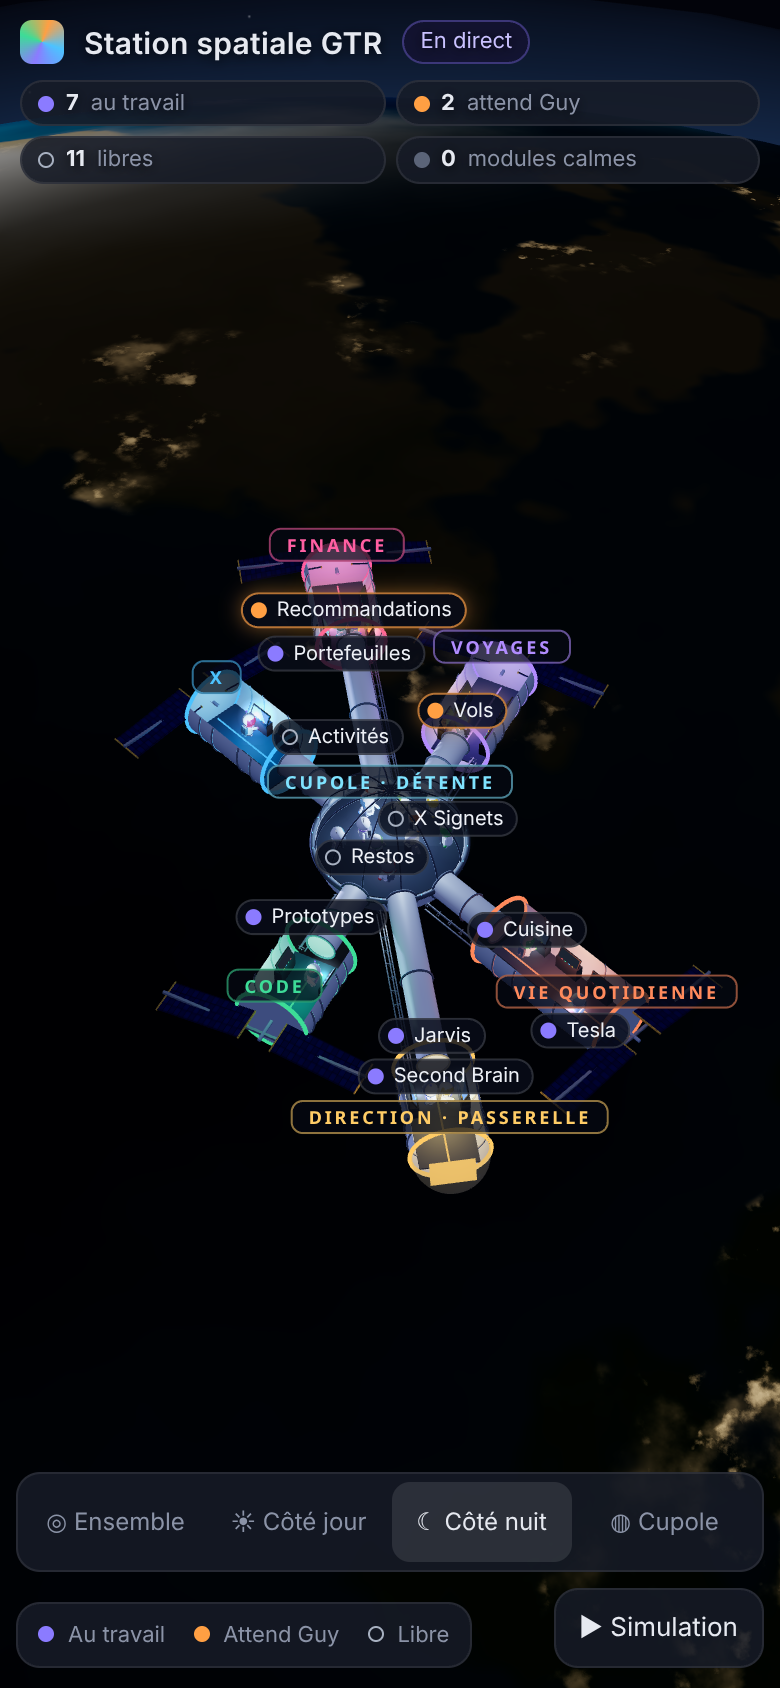
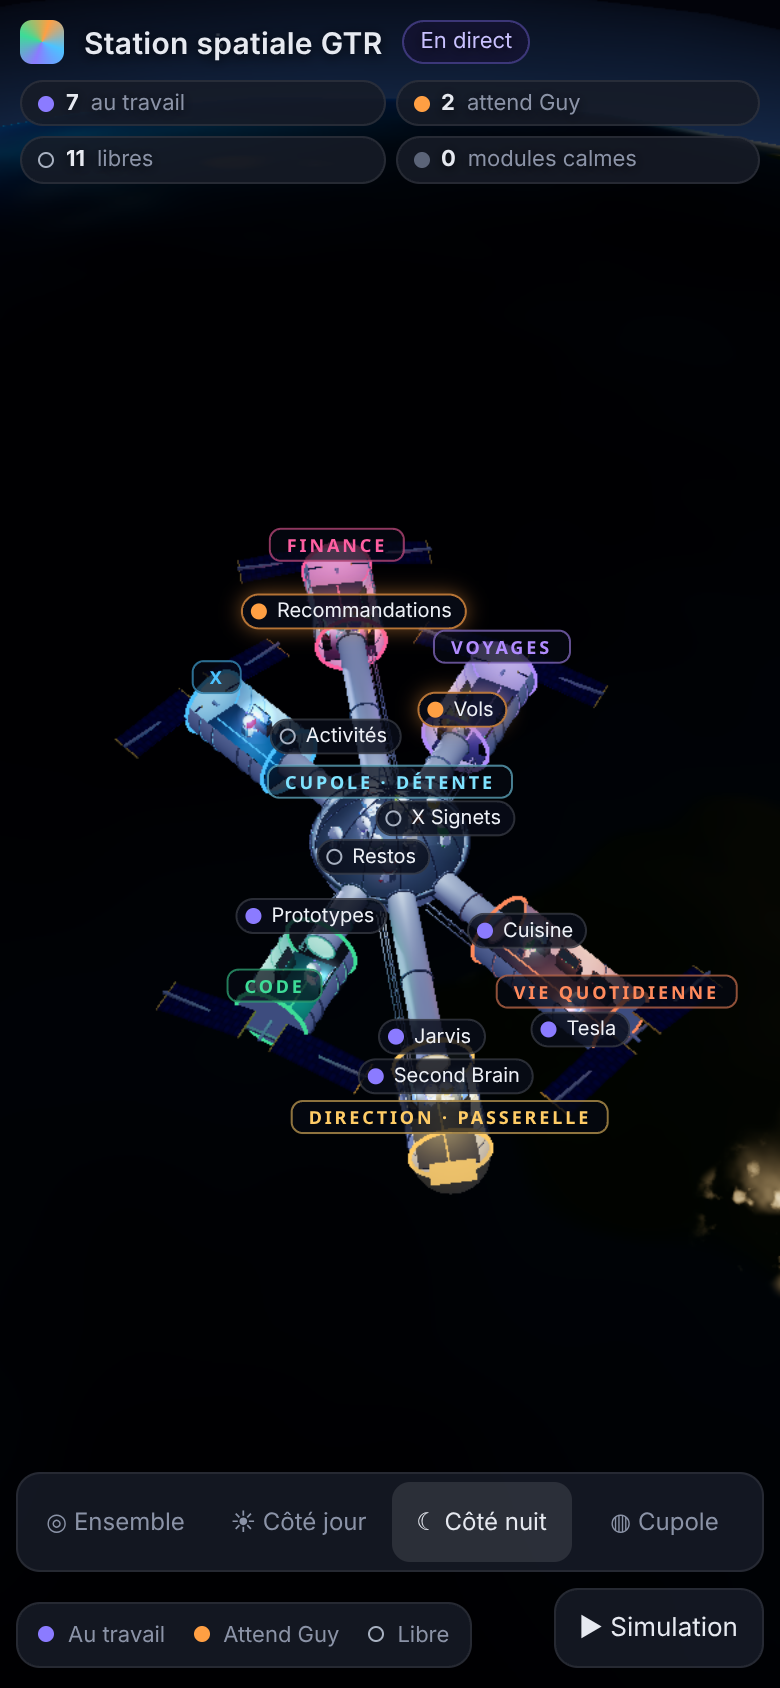
Correctif mobile : shader Terre sûr en mediump, repli Terre simple, détection d'écran blanc, fond sombre, pixelRatio limité

diff --git a/app.js b/app.js
@@ -19,8 +19,29 @@ const estCell = () => matchMedia('(max-width:860px)').matches;
 const forme = () => (conteneur.clientWidth < conteneur.clientHeight * 0.9 ? 'portrait' : 'paysage');
 
 // ---------- Rendu ----------
-const renderer = new THREE.WebGLRenderer({ antialias: true });
-renderer.setPixelRatio(Math.min(devicePixelRatio, 2));
+const params = new URLSearchParams(location.search);
+const mobile = matchMedia('(max-width:860px), (pointer:coarse)').matches;
+function avis(msg, duree = 0) {
+  let el = document.getElementById('avis-3d');
+  if (!el) { el = document.createElement('p'); el.id = 'avis-3d'; el.className = 'avis'; document.querySelector('.vue').append(el); }
+  el.textContent = msg; console.info('[3D]', msg);
+  clearTimeout(avis.t); if (duree) avis.t = setTimeout(() => el.remove(), duree);
+}
+let renderer;
+try {
+  renderer = new THREE.WebGLRenderer({ antialias: !mobile, powerPreference: 'default' });
+} catch (e) {
+  avis('La 3D (WebGL) n’est pas disponible sur cet appareil. Les états restent visibles dans le panneau.');
+  throw e;
+}
+renderer.setPixelRatio(Math.min(devicePixelRatio, mobile ? 1.5 : 2));
+renderer.setClearColor('#02030a', 1);
+let terreSimple = false;
+renderer.debug.onShaderError = (gl, prog, vs, fs) => {
+  avis('Shader non pris en charge : Terre simplifiée.', 8000);
+  if (!terreSimple) setTimeout(() => passerTerreSimple('erreur de shader'), 0);
+};
+renderer.domElement.addEventListener('webglcontextlost', (e) => { e.preventDefault(); avis('Contexte 3D perdu — rechargez la page.'); });
 renderer.shadowMap.enabled = true;
 renderer.shadowMap.type = THREE.PCFSoftShadowMap;
 renderer.toneMapping = THREE.ACESFilmicToneMapping;
@@ -86,14 +107,15 @@ scene.add(terre);
 const uniTerre = { soleilDir: { value: dirSoleil }, temps: { value: 0 } };
 const matTerre = new THREE.ShaderMaterial({
   uniforms: uniTerre,
+  defines: { OCT: mobile ? 5 : 7 },
   vertexShader: `varying vec3 vP; varying vec3 vN; varying vec3 vW;
     void main(){ vP=position; vN=normalize(mat3(modelMatrix)*normal); vec4 w=modelMatrix*vec4(position,1.); vW=w.xyz; gl_Position=projectionMatrix*viewMatrix*w; }`,
   fragmentShader: `uniform vec3 soleilDir; uniform float temps; varying vec3 vP; varying vec3 vN; varying vec3 vW;
-    float hash(vec3 p){ p=fract(p*0.3183099+.1); p*=17.0; return fract(p.x*p.y*p.z*(p.x+p.y+p.z)); }
+    float hash(vec3 p){ p=fract(p*0.1031); p+=dot(p,p.yzx+19.19); return fract((p.x+p.y)*p.z); }
     float bruit(vec3 x){ vec3 i=floor(x); vec3 f=fract(x); f=f*f*(3.-2.*f);
       return mix(mix(mix(hash(i),hash(i+vec3(1,0,0)),f.x),mix(hash(i+vec3(0,1,0)),hash(i+vec3(1,1,0)),f.x),f.y),
                  mix(mix(hash(i+vec3(0,0,1)),hash(i+vec3(1,0,1)),f.x),mix(hash(i+vec3(0,1,1)),hash(i+vec3(1,1,1)),f.x),f.y),f.z); }
-    float fbm(vec3 p){ float s=0., a=.5; for(int i=0;i<7;i++){ s+=a*bruit(p); p=p*2.03+vec3(1.7,9.2,3.1); a*=.5; } return s/0.992; }
+    float fbm(vec3 p){ float s=0., a=.5; for(int i=0;i<OCT;i++){ s+=a*bruit(p); p=p*2.03+vec3(1.7,9.2,3.1); a*=.5; } return s/(1.-pow(.5,float(OCT))); }
     void main(){
       vec3 p=normalize(vP); vec3 N=normalize(vN); vec3 L=normalize(soleilDir); vec3 V=normalize(cameraPosition-vW);
       float h=fbm(p*2.4);
@@ -112,17 +134,31 @@ const matTerre = new THREE.ShaderMaterial({
       float zone=smoothstep(0.5,0.66,fbm(p*9.+7.));
       float villes=terre*(1.-glace)*zone*(0.55*smoothstep(0.58,0.78,fbm(p*140.+1.))+0.18*smoothstep(0.52,0.7,fbm(p*35.+3.)));
       vec3 nuit=vec3(1.,.72,.38)*villes*1.3*(1.-nu*0.85)+col*0.015;
-      gl_FragColor=vec4(mix(nuit,jour,t),1.);
+      gl_FragColor=vec4(clamp(mix(nuit,jour,t),0.,1.),1.);
       #include <tonemapping_fragment>
       #include <colorspace_fragment>
     }`,
 });
-const globe = new THREE.Mesh(new THREE.SphereGeometry(RT, 128, 96), matTerre); terre.add(globe);
+const globe = new THREE.Mesh(new THREE.SphereGeometry(RT, mobile ? 72 : 128, mobile ? 48 : 96), matTerre); terre.add(globe);
+// Repli : Terre simple (couleurs + éclairage standard) si le shader échoue ou rend du blanc
+function passerTerreSimple(raison) {
+  if (terreSimple) return; terreSimple = true;
+  const c = document.createElement('canvas'); c.width = 256; c.height = 128; const g = c.getContext('2d');
+  const gr = g.createLinearGradient(0, 0, 0, 128); gr.addColorStop(0, '#dfe8f0'); gr.addColorStop(0.12, '#1d5a8c'); gr.addColorStop(0.5, '#0f4a7a'); gr.addColorStop(0.88, '#1d5a8c'); gr.addColorStop(1, '#dfe8f0');
+  g.fillStyle = gr; g.fillRect(0, 0, 256, 128);
+  let s0 = 11; const r = () => (s0 = (s0 * 16807) % 2147483647) / 2147483647;
+  for (let i = 0; i < 26; i++) { g.fillStyle = r() < 0.5 ? '#3f6b35' : '#a8925c'; g.beginPath(); g.ellipse(r() * 256, 20 + r() * 88, 8 + r() * 26, 5 + r() * 14, r() * 3, 0, 7); g.fill(); }
+  g.fillStyle = 'rgba(255,255,255,.35)'; for (let i = 0; i < 40; i++) { g.beginPath(); g.ellipse(r() * 256, r() * 128, 6 + r() * 20, 2 + r() * 5, 0, 0, 7); g.fill(); }
+  const t = new THREE.CanvasTexture(c); t.colorSpace = THREE.SRGBColorSpace;
+  globe.material = new THREE.MeshStandardMaterial({ map: t, roughness: 0.9, metalness: 0 });
+  atmo.visible = false;
+  if (params.has('debug') || raison !== 'test') avis('Mode compatibilité : Terre simplifiée (' + raison + ').', 8000);
+}
 const atmo = new THREE.Mesh(new THREE.SphereGeometry(RT * 1.05, 64, 48), new THREE.ShaderMaterial({
   uniforms: { soleilDir: { value: dirSoleil } }, side: THREE.BackSide, blending: THREE.AdditiveBlending, transparent: true, depthWrite: false,
   vertexShader: `varying vec3 vN; varying vec3 vW; void main(){ vN=normalize(normalMatrix*normal); vW=normalize(mat3(modelMatrix)*normal); gl_Position=projectionMatrix*modelViewMatrix*vec4(position,1.); }`,
-  fragmentShader: `uniform vec3 soleilDir; varying vec3 vN; varying vec3 vW; void main(){ float i=pow(0.72-dot(vN,vec3(0,0,1.)),3.2); float j=0.35+0.65*smoothstep(-0.4,0.4,dot(-vW,normalize(soleilDir)));
-    gl_FragColor=vec4(vec3(0.3,0.6,1.0)*i*j*1.6,1.); }`,
+  fragmentShader: `uniform vec3 soleilDir; varying vec3 vN; varying vec3 vW; void main(){ float i=pow(max(0.72-dot(vN,vec3(0,0,1.)),0.),3.2); float j=0.35+0.65*smoothstep(-0.4,0.4,dot(-vW,normalize(soleilDir)));
+    gl_FragColor=vec4(clamp(vec3(0.3,0.6,1.0)*i*j*1.6,0.,1.),1.); }`,
 }));
 terre.add(atmo);
 terre.rotation.set(1.25, 0, 0.2); // on survole les tropiques, pas le pôle
@@ -573,6 +609,19 @@ function deChevaucher() {
   }
 }
 
+// ---------- Vérification du rendu (écran blanc = shader en échec sur certains GPU mobiles) ----------
+let verif = 0;
+function verifierImage() {
+  if (params.has('simple')) return passerTerreSimple('test');
+  const gl = renderer.getContext(), w = gl.drawingBufferWidth, h = gl.drawingBufferHeight, px = new Uint8Array(4);
+  let blancs = 0, total = 0;
+  for (const [fx, fy] of [[0.1, 0.1], [0.9, 0.1], [0.1, 0.9], [0.9, 0.9], [0.5, 0.15], [0.5, 0.85], [0.2, 0.5], [0.8, 0.5]]) {
+    gl.readPixels(Math.floor(w * fx), Math.floor(h * fy), 1, 1, gl.RGBA, gl.UNSIGNED_BYTE, px); total++;
+    if (px[0] > 245 && px[1] > 245 && px[2] > 245) blancs++;
+  }
+  if (params.has('forcerBlanc') || blancs >= total - 1) passerTerreSimple('rendu blanc détecté');
+}
+
 // ---------- Boucle ----------
 const horloge = new THREE.Clock(); const tmp = new THREE.Vector3(); let image = 0;
 renderer.setAnimationLoop(() => {
@@ -618,10 +667,11 @@ renderer.setAnimationLoop(() => {
   }
   controls.update();
   renderer.render(scene, camera);
+  if (verif >= 0 && persos.size && horloge.elapsedTime > 1.2 && ++verif > 3) { verif = -1; if (!terreSimple) verifierImage(); }
   labels.render(scene, camera);
   if ((image++ & 1) === 0) deChevaucher();
 });
 
 charger(true);
 setInterval(() => charger(), INTERVALLE_MS);
-window.__bureau = { appliquer, persos, camera, vue: (n) => appliquerVue(n, true), pasSim };
+window.__bureau = { simple: () => terreSimple, appliquer, persos, camera, vue: (n) => appliquerVue(n, true), pasSim };

diff --git a/style.css b/style.css
@@ -5,7 +5,9 @@ html,body{margin:0;height:100%;background:var(--fond);color:var(--texte);font:14
 .app{display:grid;grid-template-columns:1fr 320px;grid-template-rows:1fr auto;height:100dvh;overflow:hidden}
 .vue{position:relative;min-width:0;min-height:0}
 #scene{position:absolute;inset:0;touch-action:none;overflow:hidden}
-#scene canvas{display:block}
+#scene canvas{display:block;background:#02030a}
+.vue{background:#02030a}
+.avis{position:absolute;left:50%;top:128px;transform:translateX(-50%);max-width:min(340px,86%);margin:0;padding:10px 14px;border-radius:12px;background:rgba(40,20,10,.9);border:1px solid rgba(255,159,67,.5);color:#ffe2c4;font-size:13px;text-align:center;z-index:7;pointer-events:none}
 ul{list-style:none;margin:0;padding:0}
 .pt{display:inline-block;width:8px;height:8px;border-radius:50%;flex:none}
 .pt.occupe{background:var(--occupe)}.pt.attend{background:var(--attend)}.pt.libre{background:transparent;border:1.5px solid var(--libre)}.pt.bureau{background:var(--bureau)}
